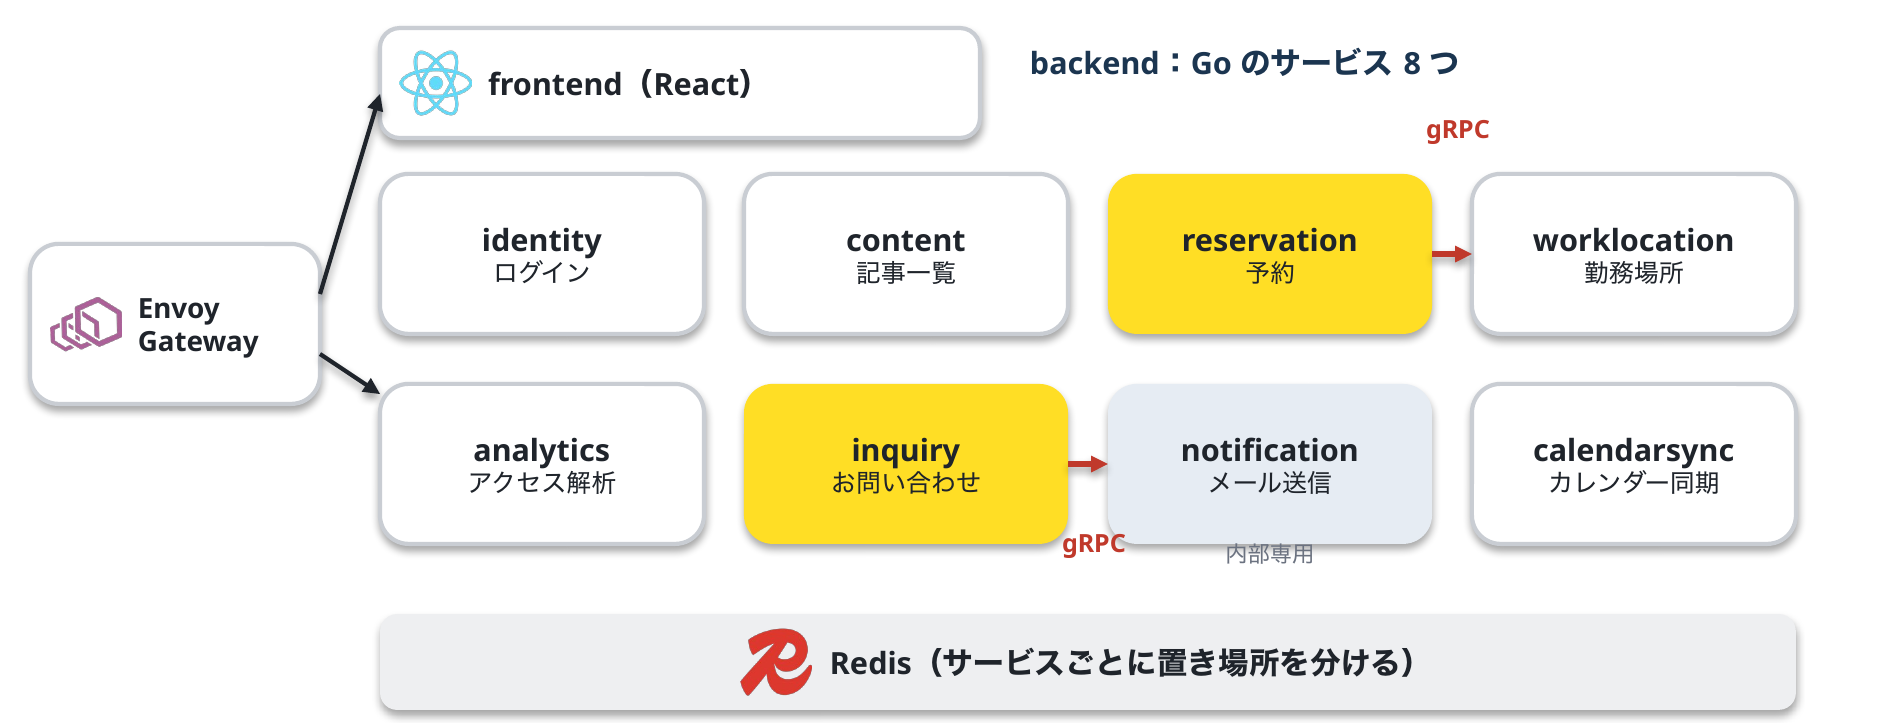
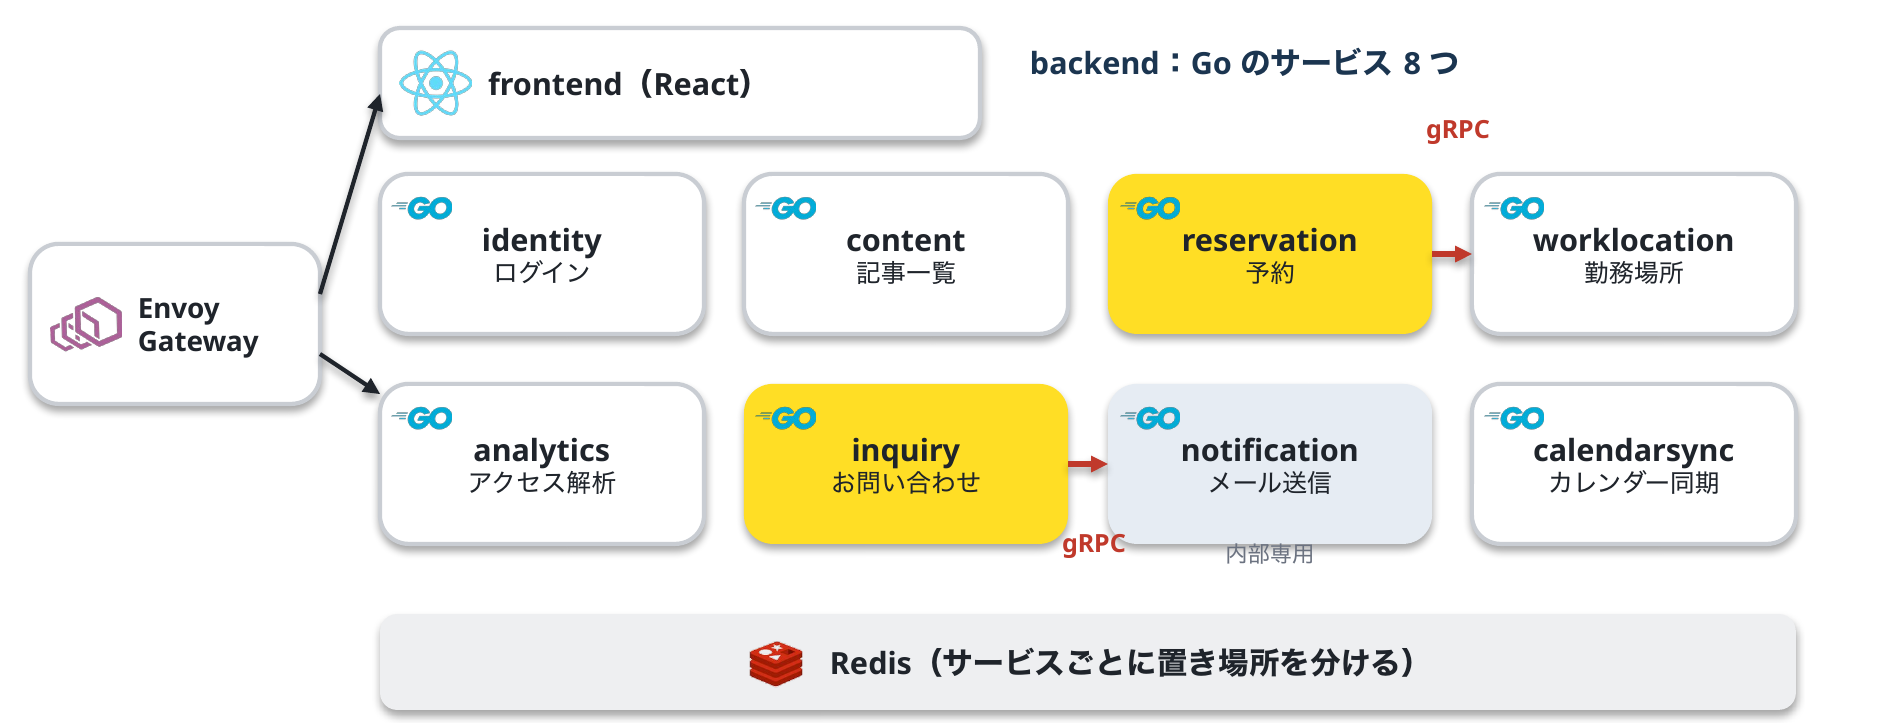
docs: 構成図に提供の Redis ロゴ・CI/CD のロゴ・各サービスの Go ロゴを追加し、インフラ図をまとめる

diff --git a/README.md b/README.md
@@ -36,17 +36,12 @@
 
 ポートフォリオサイト [taramanji.com](https://taramanji.com) は、自宅の Mac mini（M4）1 台の中の Kubernetes（kind）で動いています。
 
-### インフラ
-
-<img alt="インフラ構成図" src="docs/images/infra.png" width="100%" />
-
-- 利用者のアクセスは Cloudflare から Tunnel を通って家に届く。ルーターのポートは 1 つも開けていない
-- dev・stg・Argo Rollouts の画面は Cloudflare Access で管理者だけに制限
-- 外からの作業は Tailscale ＋ SSH
-
-### 使っている技術
+### インフラ・使っている技術
 
 <img alt="使っている技術" src="docs/images/tech.png" width="100%" />
+
+- 利用者のアクセスは Cloudflare Tunnel を通って家に届く。ルーターのポートは 1 つも開けていない
+- dev・stg・Argo Rollouts の画面は Cloudflare Access で管理者だけに制限。外からの作業は Tailscale ＋ SSH
 
 ### リリースの流れ（CI / CD）
 
